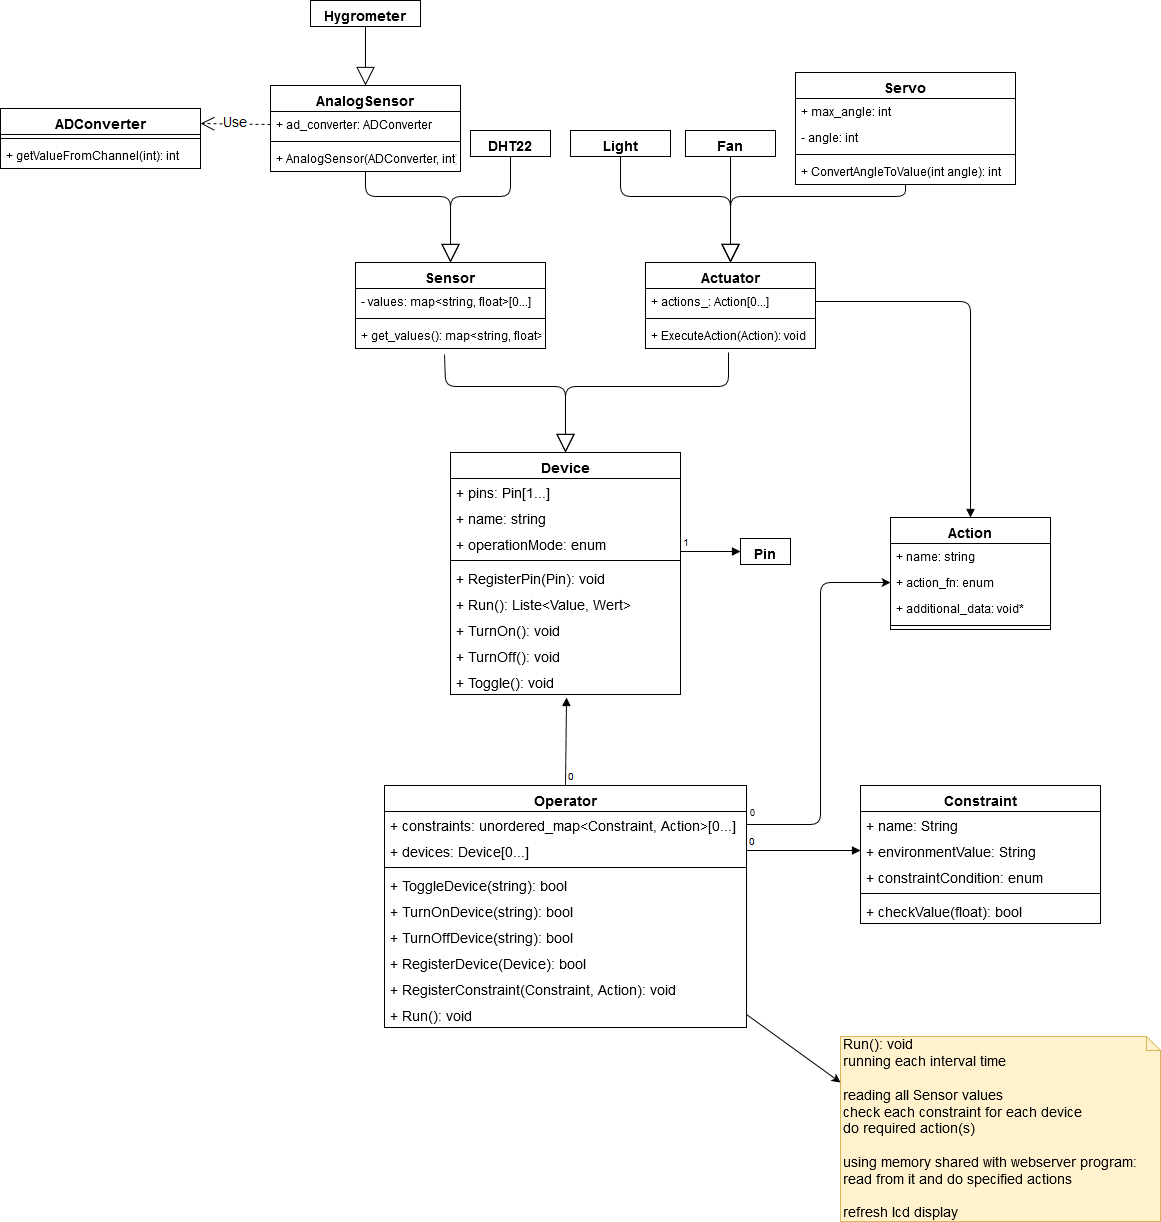
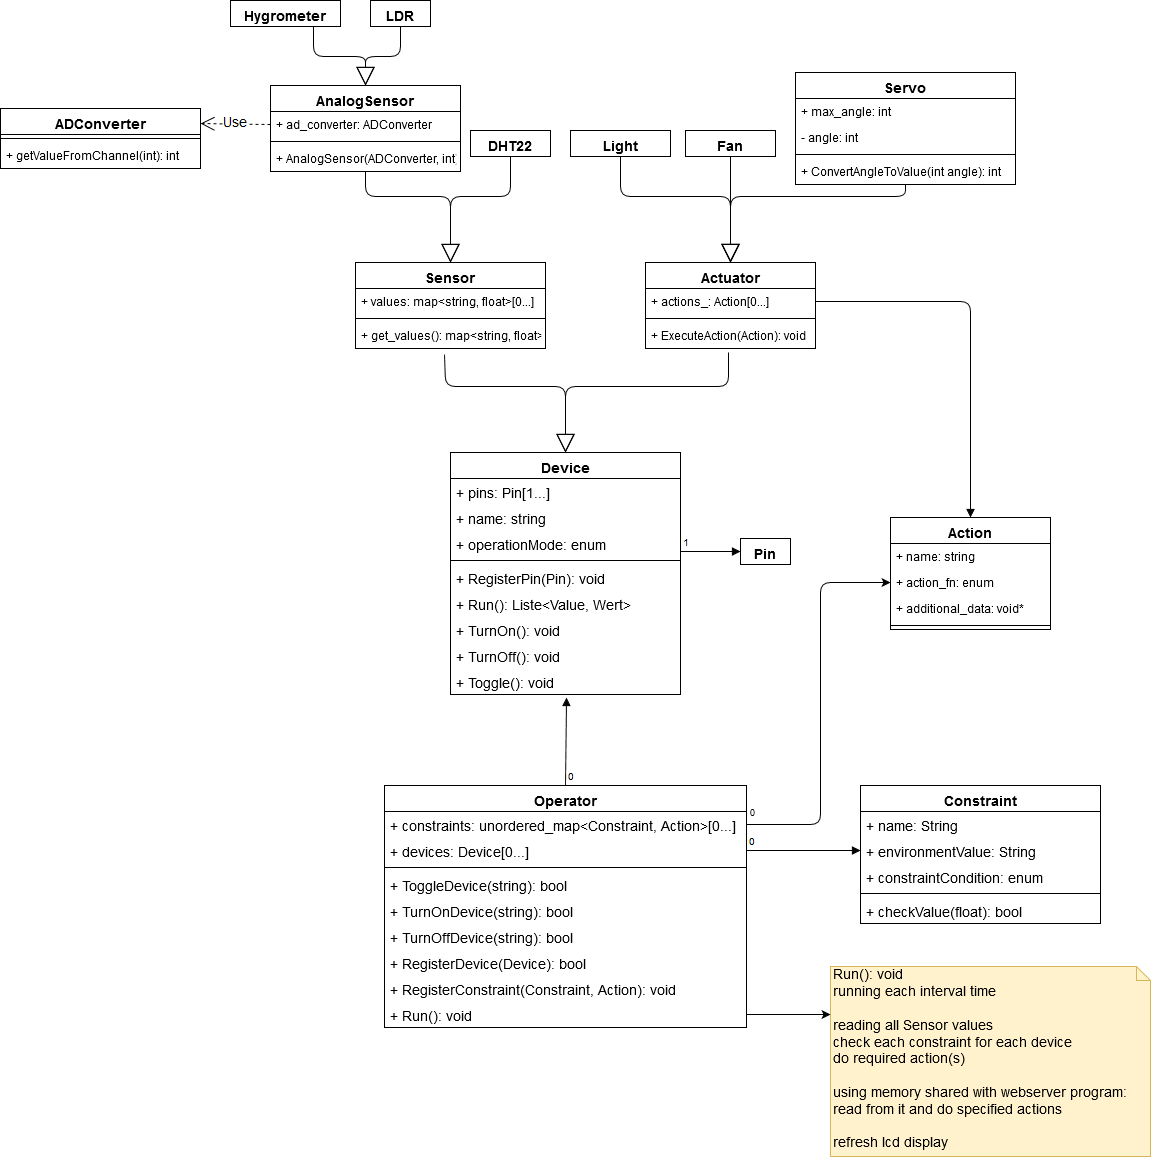
more UML stuff and a little fix if no display is used

diff --git a/ghpi/operator.cc b/ghpi/operator.cc
@@ -72,8 +72,10 @@ void ghpi::Operator::Run() {
   // Do actions from messages
   
   // Refresh display values
-  std::thread showvals(&ghpi::Operator::RefreshDisplay, std::ref(values), std::ref(*display_));
-  showvals.detach();
+  if (display_) {
+    std::thread showvals(&ghpi::Operator::RefreshDisplay, std::ref(values), std::ref(*display_));
+    showvals.detach();
+  }
 }
 
 void ghpi::Operator::RegisterConstraint(Constraint constraint, Action action) {
@@ -190,7 +192,6 @@ void ghpi::Operator::PrintConstraints() {
   }
 }
 
-
 void Operator::RefreshDisplay(const std::map<std::string, float> &values, LCDDisplay &disp) {
   int num_line = 0;
   disp.ClrLcd();
@@ -219,6 +220,7 @@ Operator::Operator() {
   shm_messages_ = shared_memory_object(create_only, ghpi::Operator::SHM_NAME, read_write);
   shm_messages_.truncate(MSG_QUEUE_SIZE);
   region_ = mapped_region(shm_messages_, read_write);
+  display_ = NULL;
 }
 
 Operator::~Operator() {
